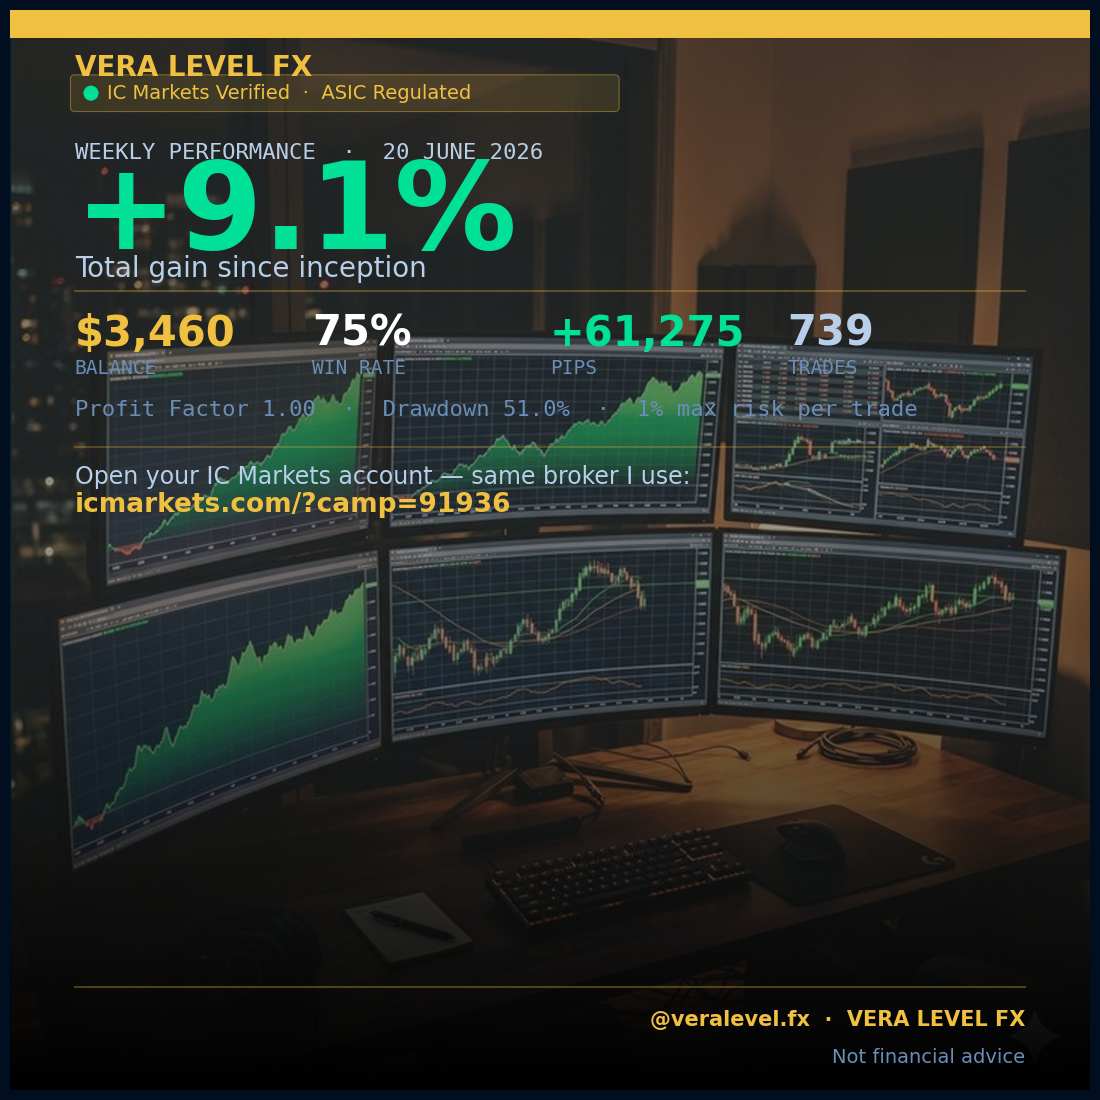
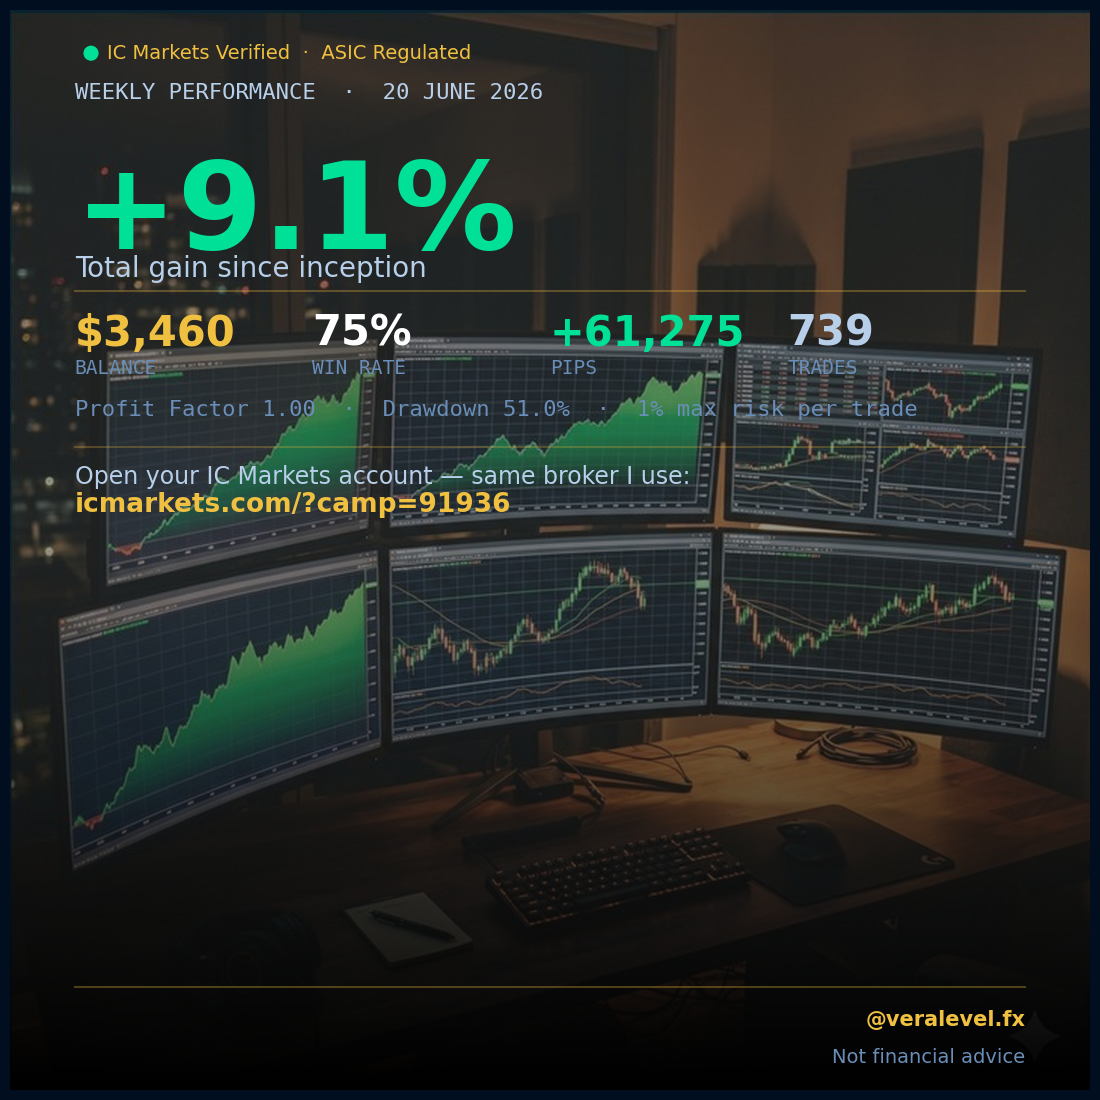
design: remove gold top bar and VERA LEVEL FX from all post types
- Weekly, monthly, winrate, risk, pairs, setup posts all cleaned
- Replace top bar + brand name with minimal IC Markets Verified badge
- Remove VERA LEVEL FX from all footer lines
- Regenerate all preview images

diff --git a/instagram/generate.py b/instagram/generate.py
@@ -118,31 +118,15 @@ def make_weekly_card(data):
     gain_color = GREEN if gain >= 0 else RED
     gain_sign  = '+' if gain >= 0 else ''
 
-    # Gold top bar
-    ax.add_patch(patches.Rectangle(
-        (0, 0.974), 1, 0.026, facecolor=GOLD, transform=ax.transAxes, zorder=5
-    ))
-
-    # Account name
-    ax.text(0.06, 0.946, 'VERA LEVEL FX',
-            fontsize=20, fontweight='bold', color=GOLD,
-            ha='left', va='center', transform=ax.transAxes, zorder=6)
-
     # Verified badge
-    ax.add_patch(patches.FancyBboxPatch(
-        (0.06, 0.910), 0.50, 0.026, boxstyle='round,pad=0.004',
-        facecolor=(240/255, 192/255, 64/255, 0.12),
-        edgecolor=(240/255, 192/255, 64/255, 0.4), linewidth=0.8,
-        transform=ax.transAxes, zorder=5
-    ))
-    ax.add_patch(patches.Circle((0.075, 0.923), 0.007,
+    ax.add_patch(patches.Circle((0.075, 0.960), 0.007,
         facecolor=GREEN, transform=ax.transAxes, zorder=6))
-    ax.text(0.090, 0.923, 'IC Markets Verified  ·  ASIC Regulated',
+    ax.text(0.090, 0.960, 'IC Markets Verified  ·  ASIC Regulated',
             fontsize=14, color=GOLD, ha='left', va='center',
             transform=ax.transAxes, zorder=6)
 
     # Post type label
-    ax.text(0.06, 0.868,
+    ax.text(0.06, 0.923,
             f'WEEKLY PERFORMANCE  ·  {datetime.now().strftime("%d %B %Y").upper()}',
             fontsize=16, color=MUTED, ha='left', va='center',
             transform=ax.transAxes, fontfamily='monospace', zorder=6)
@@ -192,7 +176,7 @@ def make_weekly_card(data):
 
     # Footer
     _hline(ax, 0.095, alpha=0.3)
-    ax.text(0.94, 0.065, '@veralevel.fx  ·  VERA LEVEL FX',
+    ax.text(0.94, 0.065, '@veralevel.fx',
             fontsize=15, color=GOLD, va='center', ha='right',
             transform=ax.transAxes, fontweight='bold', zorder=6)
     ax.text(0.94, 0.030, 'Not financial advice',
@@ -225,30 +209,23 @@ def make_monthly_chart(data):
     ax_bg = fig.add_axes([0, 0, 1, 1], facecolor=NAVY)
     ax_bg.set_xlim(0, 1); ax_bg.set_ylim(0, 1); ax_bg.axis('off')
 
-    # Gold top bar
-    ax_bg.add_patch(patches.Rectangle(
-        (0, 0.974), 1, 0.026, facecolor=GOLD, transform=ax_bg.transAxes, zorder=5
-    ))
-    ax_bg.text(0.5, 0.946, 'VERA LEVEL FX',
-               fontsize=20, fontweight='bold', color=GOLD,
-               ha='center', va='center', transform=ax_bg.transAxes, zorder=6)
     # Verified badge
     ax_bg.add_patch(patches.Circle(
-        (0.20, 0.913), 0.007, facecolor=GREEN, transform=ax_bg.transAxes, zorder=6
+        (0.36, 0.960), 0.007, facecolor=GREEN, transform=ax_bg.transAxes, zorder=6
     ))
-    ax_bg.text(0.5, 0.913, 'IC Markets Verified  ·  ASIC Regulated',
+    ax_bg.text(0.5, 0.960, 'IC Markets Verified  ·  ASIC Regulated',
                fontsize=13, color=GOLD, ha='center', va='center',
                transform=ax_bg.transAxes, zorder=6)
-    ax_bg.text(0.5, 0.848, 'Monthly P&L',
+    ax_bg.text(0.5, 0.912, 'Monthly P&L',
                fontsize=48, fontweight='bold', color=WHITE,
                ha='center', va='center', transform=ax_bg.transAxes, fontstyle='italic')
-    ax_bg.text(0.5, 0.812, '12-MONTH ROLLING BREAKDOWN',
+    ax_bg.text(0.5, 0.874, '12-MONTH ROLLING BREAKDOWN',
                fontsize=18, color=MUTED, ha='center', va='center',
                transform=ax_bg.transAxes, fontfamily='monospace')
-    ax_bg.plot([0.06, 0.94], [0.792, 0.792], color=GOLD, linewidth=1.5,
+    ax_bg.plot([0.06, 0.94], [0.854, 0.854], color=GOLD, linewidth=1.5,
                alpha=0.4, transform=ax_bg.transAxes)
 
-    ax = fig.add_axes([0.06, 0.130, 0.88, 0.645], facecolor=NAVY_L)
+    ax = fig.add_axes([0.06, 0.130, 0.88, 0.700], facecolor=NAVY_L)
     for spine in ax.spines.values():
         spine.set_color(GOLD); spine.set_alpha(0.3)
     ax.tick_params(colors=MUTED, labelsize=16)
@@ -277,7 +254,7 @@ def make_monthly_chart(data):
 
     ax_bg.plot([0.06, 0.94], [0.095, 0.095], color=GOLD, linewidth=1.2,
                alpha=0.3, transform=ax_bg.transAxes, zorder=5)
-    ax_bg.text(0.94, 0.065, '@veralevel.fx  ·  VERA LEVEL FX',
+    ax_bg.text(0.94, 0.065, '@veralevel.fx',
                fontsize=15, color=GOLD, va='center', ha='right',
                transform=ax_bg.transAxes, fontweight='bold', zorder=5)
     ax_bg.text(0.5, 0.065, 'icmarkets.com/?camp=91936',
@@ -368,7 +345,7 @@ def make_winrate_card(data):
             ha='center', va='center', transform=ax.transAxes, zorder=6)
 
     # Footer
-    ax.text(0.5, 0.040, '@veralevel.fx  ·  VERA LEVEL FX  ·  Not financial advice',
+    ax.text(0.5, 0.040, '@veralevel.fx  ·  Not financial advice',
             fontsize=14, color=MUTED, ha='center', va='center',
             transform=ax.transAxes, fontfamily='monospace', zorder=6)
 

diff --git a/instagram/generate_edu.py b/instagram/generate_edu.py
@@ -98,12 +98,6 @@ def _base_fig(post_type: str):
         ax_bg.plot([0, 1], [v, v], color=GOLD, alpha=0.018, linewidth=0.5, zorder=2)
         ax_bg.plot([v, v], [0, 1], color=GOLD, alpha=0.018, linewidth=0.5, zorder=2)
 
-    # Top gold bar
-    ax_bg.add_patch(patches.Rectangle(
-        (0, 0.974), 1, 0.026, facecolor=GOLD,
-        transform=ax_bg.transAxes, zorder=3
-    ))
-
     # Content axes
     ax = fig.add_axes([0, 0, 1, 1])
     ax.set_xlim(0, 1); ax.set_ylim(0, 1)
@@ -207,35 +201,20 @@ def make_risk_post(content: dict):
     ax.set_xlim(0, 1); ax.set_ylim(0, 1); ax.axis('off')
     ax.imshow(bg, extent=[0, 1, 0, 1], aspect='auto', zorder=0)
 
-    # Gold top bar
-    ax.add_patch(patches.Rectangle(
-        (0, 0.974), 1, 0.026, facecolor=GOLD, transform=ax.transAxes, zorder=5
-    ))
-
-    # Brand
-    ax.text(0.06, 0.946, 'VERA LEVEL FX',
-            fontsize=20, fontweight='bold', color=GOLD,
-            ha='left', va='center', transform=ax.transAxes, zorder=6)
-    ax.add_patch(patches.Circle((0.075, 0.923), 0.007,
-        facecolor=GREEN, transform=ax.transAxes, zorder=6))
-    ax.text(0.090, 0.923, 'IC Markets Verified  ·  ASIC Regulated',
-            fontsize=14, color=GOLD, ha='left', va='center',
-            transform=ax.transAxes, zorder=6)
-
-    # Section label + tag (plain text, no box)
-    ax.text(0.06, 0.876, 'RISK MANAGEMENT RULE ' + content['rule_num'],
+    # Section label + tag
+    ax.text(0.06, 0.955, 'RISK MANAGEMENT RULE ' + content['rule_num'],
             fontsize=16, color=RED, fontweight='bold', va='center',
             transform=ax.transAxes, fontfamily='monospace', zorder=5)
-    ax.text(0.94, 0.876, content['tag'],
+    ax.text(0.94, 0.955, content['tag'],
             fontsize=16, color=RED, fontweight='bold', va='center', ha='right',
             transform=ax.transAxes, fontfamily='monospace', zorder=5)
 
-    _hline(ax, 0.858, alpha=0.30)
+    _hline(ax, 0.937, alpha=0.30)
 
     # Rule title — wrap to 2 lines if long so nothing clips at right edge
     title_lines = _wrap(content['title'], 16)
     for ti, tl in enumerate(title_lines[:2]):
-        ax.text(0.06, 0.840 - ti * 0.072, tl,
+        ax.text(0.06, 0.920 - ti * 0.072, tl,
                 fontsize=56, fontweight='black', color=WHITE,
                 va='top', transform=ax.transAxes, zorder=5, clip_on=True)
 
@@ -277,7 +256,7 @@ def make_risk_post(content: dict):
 
     # Footer
     _hline(ax, 0.098, alpha=0.3)
-    ax.text(0.94, 0.065, '@veralevel.fx  ·  VERA LEVEL FX',
+    ax.text(0.94, 0.065, '@veralevel.fx',
             fontsize=15, color=GOLD, va='center', ha='right',
             transform=ax.transAxes, fontweight='bold', zorder=5)
     ax.text(0.94, 0.030, 'Not financial advice  ·  IC MARKETS · ASIC',
@@ -308,18 +287,6 @@ def make_pairs_post(content: dict):
     ax = fig.add_axes([0, 0, 1, 1])
     ax.set_xlim(0, 1); ax.set_ylim(0, 1); ax.axis('off')
     ax.imshow(bg, extent=[0, 1, 0, 1], aspect='auto', zorder=0)
-
-    # Gold top bar
-    ax.add_patch(patches.Rectangle(
-        (0, 0.974), 1, 0.026, facecolor=GOLD, transform=ax.transAxes, zorder=5
-    ))
-    ax.text(0.5, 0.946, 'VERA LEVEL FX',
-            fontsize=18, fontweight='bold', color=GOLD,
-            ha='center', va='center',
-            transform=ax.transAxes, fontfamily='monospace', zorder=6)
-    ax.text(0.5, 0.916, 'ALGORITHMIC FOREX  ·  IC MARKETS  ·  MYFXBOOK VERIFIED',
-            fontsize=13, color=CREAM, ha='center', va='center',
-            transform=ax.transAxes, fontfamily='monospace', zorder=6)
 
     # PAIR SPOTLIGHT label (at top of black panel)
     ax.text(0.06, split_y - 0.028, 'PAIR SPOTLIGHT',
@@ -406,15 +373,6 @@ def make_setup_post(content: dict):
     pair      = content.get('pair', '')
     rr        = content.get('rr', '1:2')
     steps     = content.get('steps', [])
-
-    # Gold top bar
-    ax.add_patch(patches.Rectangle(
-        (0, 0.974), 1, 0.026, facecolor=GOLD, transform=ax.transAxes, zorder=5
-    ))
-    ax.text(0.5, 0.946, 'VERA LEVEL FX',
-            fontsize=18, fontweight='bold', color=GOLD,
-            ha='center', va='center',
-            transform=ax.transAxes, fontfamily='monospace', zorder=6)
 
     # Direction label (no box)
     ax.text(0.06, split_y + 0.027, f'{dir_icon}  {direction} SETUP',
